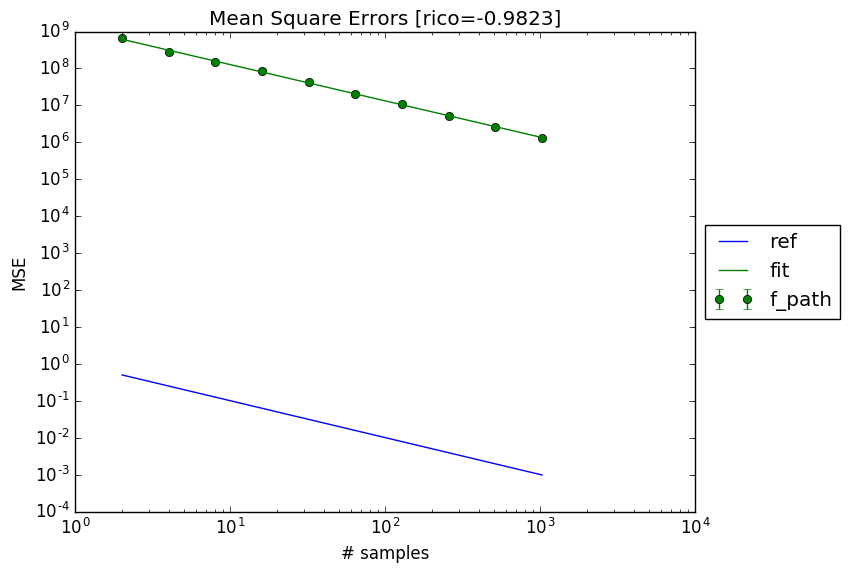
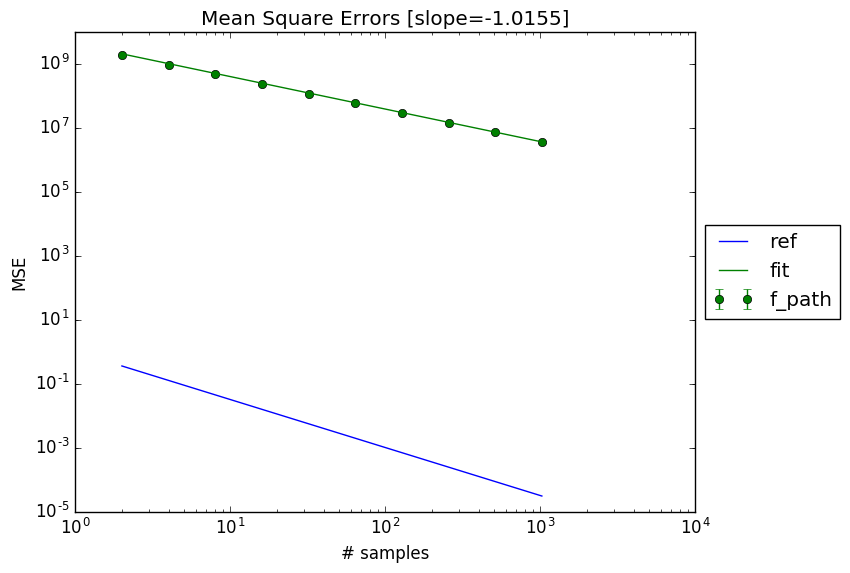
Major update

diff --git a/src/mc_tools.py b/src/mc_tools.py
@@ -1,66 +1,148 @@
 import matplotlib.pyplot as plt
 import numpy as np
 
-DEFAULT_NB_EXPERIMENTS = 10
-DEFAULT_NB_RUNS = 1000
-DEFAULT_NB_SAMPLES = [2**i for i in range(1, 16)]
-
 ###################################################################################################################################################################################
-## Characteristic Values
+## Configuration
 ################################################################################################################################################################################### 
-def calculate_bias(f, mean, nb_runs=DEFAULT_NB_RUNS, nb_samples=DEFAULT_NB_SAMPLES):
-    size = len(nb_samples)
-    bias = np.zeros((size))
-    for i in range(size):
-        samples = np.array([f(nb_samples[i]) for run in range(nb_runs)])
-        bias[i] = np.mean(samples) - mean
-    return bias / mean #relative bias
-
-def calculate_MSE(f, mean=None, nb_runs=DEFAULT_NB_RUNS, nb_samples=DEFAULT_NB_SAMPLES):
-    size = len(nb_samples)
+class Configuration(object):
+    
+    def __init__(self, nb_merges=100, nb_experiments=10, nb_runs=1000, nb_samples=[2**i for i in range(1, 16)]):
+        # Number of merges for bootstrapping
+        self.nb_merges = nb_merges
+        # Number of experiments to obtain one _beta_ estimator
+        # _beta_ distribution available
+        self.nb_experiments = nb_experiments
+        # Number of runs to obtain one estimator _beta_ of the MSE/RMSE of one estimator _alpha_
+        # _alpha_ distribution available
+        self.nb_runs = nb_runs
+        # Number of samples to obtain one estimator _alpha_
+        self.nb_samples = nb_samples
+        
+###################################################################################################################################################################################
+## Sequential calculation of characteristic values
+################################################################################################################################################################################### 
+def calculate_all(f, mean=None, config=Configuration()):
+    size = len(config.nb_samples)
+    if mean is not None:
+        bias = np.zeros((size))
     MSE = np.zeros((size))
     for i in range(size):
-        samples = np.array([f(nb_samples[i]) for run in range(nb_runs)])
+        samples = np.array([f(config.nb_samples[i]) for run in range(config.nb_runs)])
         if mean is None:
-            MSE[i] = np.var(np.abs(samples - np.mean(samples)), ddof=1)
+            MSE[i] = np.var(samples - np.mean(samples), ddof=1)
         else:
-            MSE[i] = np.var(np.abs(samples - mean), ddof=0)
+            MSE[i] = np.var(samples - mean, ddof=0)
+            bias[i] = (np.mean(samples) - mean) / mean #relative bias
+    if mean is not None:
+        return np.sqrt(MSE), MSE, bias
+    else:
+        return np.sqrt(MSE), MSE
+
+def calculate_bias(f, mean, config=Configuration()):
+    size = len(config.nb_samples)
+    bias = np.zeros((size))
+    for i in range(size):
+        samples = np.array([f(config.nb_samples[i]) for run in range(config.nb_runs)])
+        bias[i] = (np.mean(samples) - mean) / mean #relative bias
+    return bias
+
+def calculate_MSE(f, mean=None, config=Configuration()):
+    size = len(config.nb_samples)
+    MSE = np.zeros((size))
+    for i in range(size):
+        samples = np.array([f(config.nb_samples[i]) for run in range(config.nb_runs)])
+        if mean is None:
+            MSE[i] = np.var(samples - np.mean(samples), ddof=1)
+        else:
+            MSE[i] = np.var(samples - mean, ddof=0)
     return MSE
 
-def calculate_RMSE(f, mean=None, nb_runs=DEFAULT_NB_RUNS, nb_samples=DEFAULT_NB_SAMPLES):
-    size = len(nb_samples)
+def calculate_RMSE(f, mean=None, config=Configuration()):
+    size = len(config.nb_samples)
     RMSE = np.zeros((size))
     for i in range(size):
-        samples = np.array([f(nb_samples[i]) for run in range(nb_runs)])
+        samples = np.array([f(config.nb_samples[i]) for run in range(config.nb_runs)])
         if mean is None:
-            RMSE[i] = np.std(np.abs(samples - np.mean(samples)), ddof=1)
+            RMSE[i] = np.std(samples - np.mean(samples), ddof=1)
         else:
-            RMSE[i] = np.std(np.abs(samples - mean), ddof=0)
+            RMSE[i] = np.std(samples - mean, ddof=0)
     return RMSE
-    
+   
 ###################################################################################################################################################################################
-## Visualization of Characteristic Values
-###################################################################################################################################################################################
+## Parallel calculation of characteristic values
+###################################################################################################################################################################################  
 from global_configuration import nb_cpus
-from multiprocessing.pool import ThreadPool
+from multiprocessing.pool import ThreadPool as Pool
 
-def _task(f, nb_experiments=DEFAULT_NB_EXPERIMENTS):
-    pool = ThreadPool(processes=nb_cpus())
-    result = np.array(pool.map(f, range(nb_experiments)))
+def calculate(f, config=Configuration()):
+    pool = Pool(nb_cpus())
+    result = np.array(pool.map(f, range(config.nb_experiments)))
     pool.close()
     pool.join() 
     return result
+    
+###################################################################################################################################################################################
+## Bootstrap sampling
+################################################################################################################################################################################### 
+def bootstrap_coefficients(data, config=Configuration()):
+    # nb_experiments x len(nb_samples) -> len(nb_samples) x nb_experiments
+    tdata = np.transpose(data)
 
-def vis_bias(f, mean, nb_experiments=DEFAULT_NB_EXPERIMENTS, nb_runs=DEFAULT_NB_RUNS, nb_samples=DEFAULT_NB_SAMPLES):
-    bias = _task(lambda x: calculate_bias(f=f, mean=mean, nb_runs=nb_runs, nb_samples=nb_samples), nb_experiments=nb_experiments)
-    _vis_bias(f.__name__, bias=bias, nb_samples=nb_samples)
+    w = 1.0 / np.std( data, axis=0, ddof=1)
 
-def _vis_bias(name, bias, nb_samples=DEFAULT_NB_SAMPLES):
+    log_nb_samples = np.log2(config.nb_samples)
+    coefficients = np.zeros((config.nb_merges, 2))
+    for i in range(config.nb_merges):
+        values = tdata[[\
+                        np.arange(len(config.nb_samples)), \
+                        np.random.randint(size=(len(config.nb_samples)), low=0, high=config.nb_experiments)]]
+        log_values = np.log2(values)
+        coefficients[i] = np.polyfit(log_nb_samples, log_values, 1, w=w)
+    
+    # coefficients std
+    return np.std(coefficients, axis=0, ddof=1)
+ 
+###################################################################################################################################################################################
+## Visualization of characteristic values
+###################################################################################################################################################################################
+def vis_bias(f, mean, config=Configuration()):
+    # nb_experiments x len(nb_samples)
+    biass = calculate(f=lambda x: calculate_bias(f=f, mean=mean, config=config), config=config)
+    
+    # Visualization
+    _vis_bias(name=f.__name__, biass=biass, config=config)
+
+def vis_MSE(f, mean=None, config=Configuration()):
+    # nb_experiments x len(nb_samples)
+    MSEs = calculate(f=lambda x: calculate_MSE(f=f, mean=mean, config=config), config=config)
+    
+    # Bootstrapping coefficients
+    coefficients_std = bootstrap_coefficients(MSEs, config=config)
+    print('MSE slope std:\t\t' + str(coefficients_std[0]))
+    print('MSE intercept std:\t' + str(coefficients_std[1]))
+    
+    # Visualization
+    _vis_MSE(name=f.__name__, MSEs=MSEs, config=config)
+
+def vis_RMSE(f, mean=None, config=Configuration()):
+    # nb_experiments x len(nb_samples)
+    RMSEs = calculate(f=lambda x: calculate_RMSE(f=f, mean=mean, config=config), config=config)
+    
+    # Bootstrapping coefficients
+    coefficients_std = bootstrap_coefficients(RMSEs, config=config)
+    print('RMSE slope std:\t\t' + str(coefficients_std[0]))
+    print('RMSE intercept std:\t' + str(coefficients_std[1]))
+    
+    # Visualization
+    _vis_RMSE(name=f.__name__, RMSEs=RMSEs, config=config)
+
+def _vis_bias(name, biass, config=Configuration()):
     plt.figure()
     
-    bias_mean = np.mean(bias, axis=0)
-    bias_std = np.std(bias, axis=0, ddof=1)
-    plt.errorbar(nb_samples, bias_mean, yerr=bias_std, ls='None', marker='o', color='g', label=name)
+    # MC data
+    biass_mean = np.mean(biass, axis=0)
+    biass_std  = np.std( biass, axis=0, ddof=1)
+    plt.errorbar(config.nb_samples, biass_mean, yerr=biass_std, ls='None', marker='o', color='g', label=name)
     
     plt.title('Bias')
     plt.xscale('log')
@@ -70,28 +152,25 @@ def _vis_bias(name, bias, nb_samples=DEFAULT_NB_SAMPLES):
     
     plt.savefig('bias_' + name + '.png', bbox_inches='tight')
 
-def vis_MSE(f, mean=None, nb_experiments=DEFAULT_NB_EXPERIMENTS, nb_runs=DEFAULT_NB_RUNS, nb_samples=DEFAULT_NB_SAMPLES):
-    MSE = _task(lambda x: calculate_MSE(f=f, mean=mean, nb_runs=nb_runs, nb_samples=nb_samples), nb_experiments=nb_experiments)
-    _vis_MSE(f.__name__, MSE=MSE, nb_samples=nb_samples)
-
-def _vis_MSE(name, MSE, nb_samples=DEFAULT_NB_SAMPLES):
+def _vis_MSE(name, MSEs, config=Configuration()):
     plt.figure()
     
     # MC data
-    MSE_mean = np.mean(MSE, axis=0)
-    MSE_std = np.std(MSE, axis=0, ddof=1)
-    plt.errorbar(nb_samples, MSE_mean, yerr=MSE_std, ls='None', marker='o', color='g', label=name)
+    MSEs_mean = np.mean(MSEs, axis=0)
+    MSEs_std  = np.std( MSEs, axis=0, ddof=1)
+    plt.errorbar(config.nb_samples, MSEs_mean, yerr=MSEs_std, ls='None', marker='o', color='g', label=name)
     # 1 degree polynomial reference
-    plt.plot(nb_samples, np.power(nb_samples, -1.0), ls='-', color='b', label='ref')
+    plt.plot(config.nb_samples, np.power(config.nb_samples, -1.5), ls='-', color='b', label='ref')
     # 1 degree polynomial fit
-    log_nb_samples = np.log2(nb_samples)
-    log_MSE_mean = np.log2(MSE_mean)
-    fitted_coefficients = np.polyfit(log_nb_samples, log_MSE_mean, 1)
+    w = 1.0 / MSEs_std
+    log_nb_samples = np.log2(config.nb_samples)
+    log_MSEs_mean = np.log2(MSEs_mean)
+    fitted_coefficients = np.polyfit(log_nb_samples, log_MSEs_mean, 1, w=w)
     fitted_polygon = np.poly1d(fitted_coefficients)
     fitted_data = [2**fitted_polygon(s) for s in log_nb_samples]
-    plt.plot(nb_samples, fitted_data, ls='-', color='g', label='fit')
+    plt.plot(config.nb_samples, fitted_data, ls='-', color='g', label='fit')
     
-    plt.title('Mean Square Errors [rico={0:0.4f}]'.format(fitted_coefficients[0]))
+    plt.title('Mean Square Errors [slope={0:0.4f}]'.format(fitted_coefficients[0]))
     plt.xscale('log')
     plt.yscale('log')
     plt.xlabel('# samples')
@@ -99,29 +178,26 @@ def _vis_MSE(name, MSE, nb_samples=DEFAULT_NB_SAMPLES):
     plt.legend(loc='center left', bbox_to_anchor=(1, 0.5))
     
     plt.savefig('MSE_' + name + '.png', bbox_inches='tight')
-    
-def vis_RMSE(f, mean=None, nb_experiments=DEFAULT_NB_EXPERIMENTS, nb_runs=DEFAULT_NB_RUNS, nb_samples=DEFAULT_NB_SAMPLES):
-    RMSE = _task(lambda x: calculate_RMSE(f=f, mean=mean, nb_runs=nb_runs, nb_samples=nb_samples), nb_experiments=nb_experiments)
-    _vis_RMSE(f.__name__, RMSE=RMSE, nb_samples=nb_samples)
-    
-def _vis_RMSE(name, RMSE, nb_samples=DEFAULT_NB_SAMPLES):
+  
+def _vis_RMSE(name, RMSEs, config=Configuration()):
     plt.figure()
     
     # MC data
-    RMSE_mean = np.mean(RMSE, axis=0)
-    RMSE_std = np.std(RMSE, axis=0, ddof=1)
-    plt.errorbar(nb_samples, RMSE_mean, yerr=RMSE_std, ls='None', marker='o', color='g', label=name)
+    RMSEs_mean = np.mean(RMSEs, axis=0)
+    RMSEs_std  = np.std( RMSEs, axis=0, ddof=1)
+    plt.errorbar(config.nb_samples, RMSEs_mean, yerr=RMSEs_std, ls='None', marker='o', color='g', label=name)
     # 1 degree polynomial reference
-    plt.plot(nb_samples, np.power(nb_samples, -0.5), ls='-', color='b', label='ref')
+    plt.plot(config.nb_samples, np.power(config.nb_samples, -0.5), ls='-', color='b', label='ref')
     # 1 degree polynomial fit
-    log_nb_samples = np.log2(nb_samples)
-    log_RMSE_mean = np.log2(RMSE_mean)
-    fitted_coefficients = np.polyfit(log_nb_samples, log_RMSE_mean, 1)
+    w = 1.0 / RMSEs_std
+    log_nb_samples = np.log2(config.nb_samples)
+    log_RMSEs_mean = np.log2(RMSEs_mean)
+    fitted_coefficients = np.polyfit(log_nb_samples, log_RMSEs_mean, 1, w=w)
     fitted_polygon = np.poly1d(fitted_coefficients)
     fitted_data = [2**fitted_polygon(s) for s in log_nb_samples]
-    plt.plot(nb_samples, fitted_data, ls='-', color='g', label='fit')
+    plt.plot(config.nb_samples, fitted_data, ls='-', color='g', label='fit')
     
-    plt.title('Root Mean Square Errors [rico={0:0.4f}]'.format(fitted_coefficients[0]))
+    plt.title('Root Mean Square Errors [slope={0:0.4f}]'.format(fitted_coefficients[0]))
     plt.xscale('log')
     plt.yscale('log')
     plt.xlabel('# samples')

diff --git a/src/test.py b/src/test.py
@@ -1,5 +1,5 @@
 from geometry import surface_area_hitmiss, surface_area_exact, pip_cn, pip_wn, pip_path
-from mc_tools import vis_bias, vis_MSE, vis_RMSE
+from mc_tools import Configuration, vis_bias, vis_MSE, vis_RMSE
 import numpy as np
 
 ###################################################################################################################################################################################
@@ -11,16 +11,33 @@ def test_polygon1():
     mean = surface_area_exact(p_vs)
     window = [0.0, 350.0, 0.0, 350.0]
     return p_vs, mean, window
-
+    
+def test_polygon2():
+    p_vs = [[0.0, 0.0], [1.0, 0.0], [1.0, 1.0], [0.0, 1.0]]
+    p_vs = [np.array(v) for v in p_vs]
+    mean = surface_area_exact(p_vs)
+    window = [0.0, 5.0, 0.0, 5.0]
+    return p_vs, mean, window
+    
 def test(exp=10):
-    nb_samples=[2**i for i in range(1, exp+1)]
     p_vs, mean, window = test_polygon1()
+    
+    config = Configuration()
+    config.nb_samples = [2**i for i in range(1, exp+1)]
     
     def f_cn(s):   return surface_area_hitmiss(f=pip_cn,   p_vs=p_vs, r=window, samples=s, plot=False)
     def f_wn(s):   return surface_area_hitmiss(f=pip_wn,   p_vs=p_vs, r=window, samples=s, plot=False)
     def f_path(s): return surface_area_hitmiss(f=pip_path, p_vs=p_vs, r=window, samples=s, plot=False)
     
-    for f in [f_wn, f_wn, f_path]: 
-        vis_MSE(f=f, mean=mean, nb_samples=nb_samples)
-        vis_RMSE(f=f, mean=mean, nb_samples=nb_samples)
+    for f in [f_cn, f_wn, f_path]:
+        vis_MSE( f=f, mean=mean, config=config)
+        vis_RMSE(f=f, mean=mean, config=config)
         
+def test_border():
+    p_vs, mean, window = test_polygon2()
+    
+    vertices = [np.array([0.0, 0.0]), np.array([1.0, 0.0]), np.array([1.0, 1.0]), np.array([0.0, 1.0])]
+    edges    = [np.array([0.0, 0.5]), np.array([1.0, 0.5]), np.array([0.5, 0.0]), np.array([1.0, 0.5])]
+    
+    for p in (vertices + edges):
+        print('Point [{0}, {1}]\t cn={2}\t wn={3}\t path={4}'.format(p[0], p[1], pip_cn(p, p_vs), pip_wn(p, p_vs), pip_path(p, p_vs)))

diff --git a/src/geometry.py b/src/geometry.py
@@ -27,7 +27,7 @@ def pip_cn(p, p_vs):
 	       cn += 1
 	p_v1 = p_v2
     # even = out, odd = in
-    return cn & 1
+    return bool(cn & 1)
 	
 # (c) Sunday [http://geomalgorithms.com/a03-_inclusion.html]
 def pip_wn(p, p_vs):
@@ -49,7 +49,7 @@ def pip_wn(p, p_vs):
             if (p[1] >= p_v2[1]) and (is_left(p_v1, p_v2) < 0):
 		wn -= 1
 	p_v1 = p_v2	
-    return wn != 0	
+    return bool(wn)
    
 from matplotlib.path import Path 
 def pip_path(p, p_vs):
